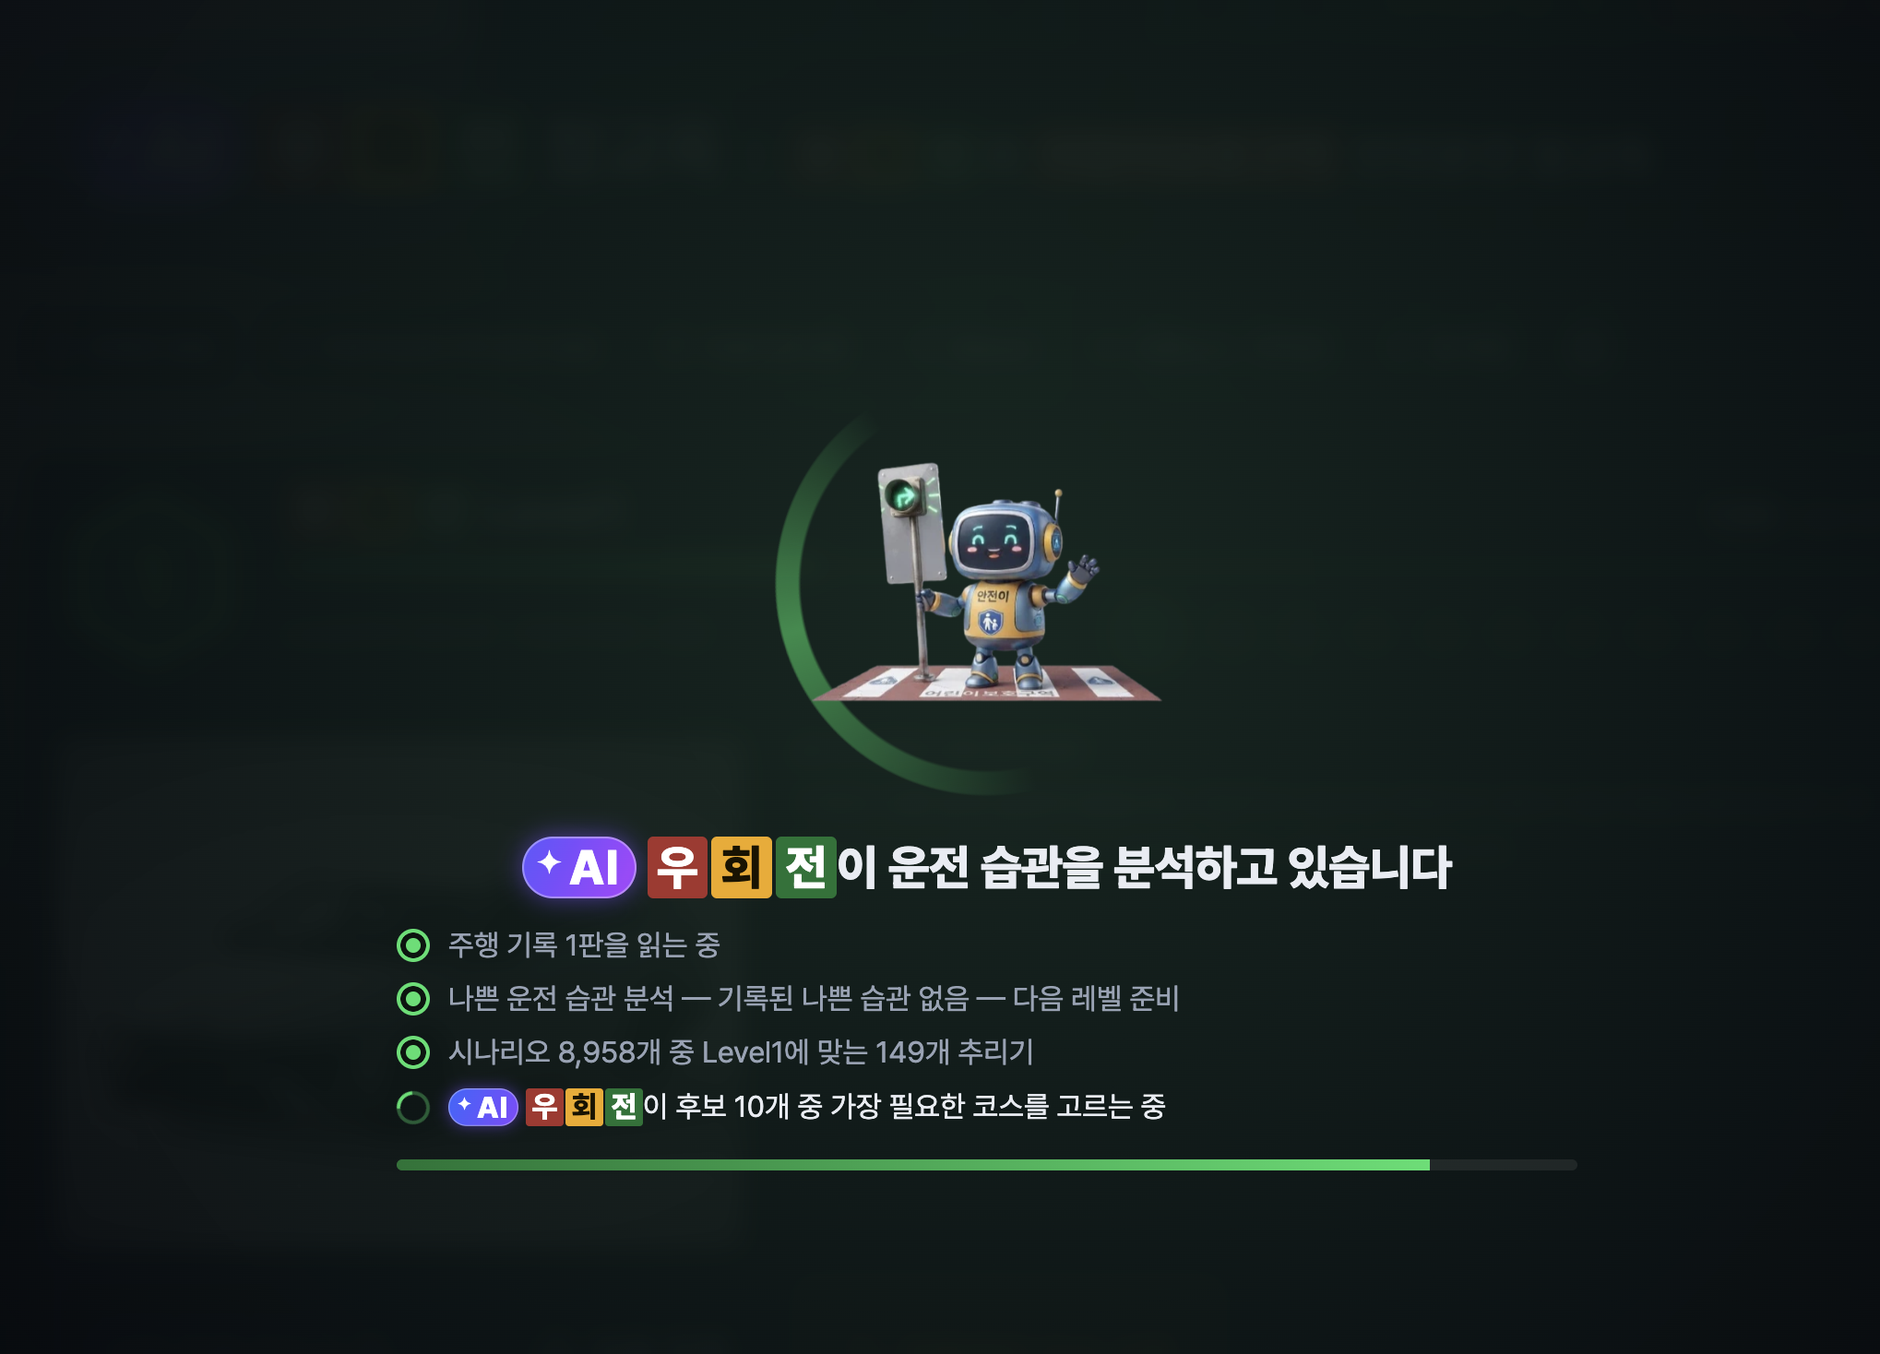
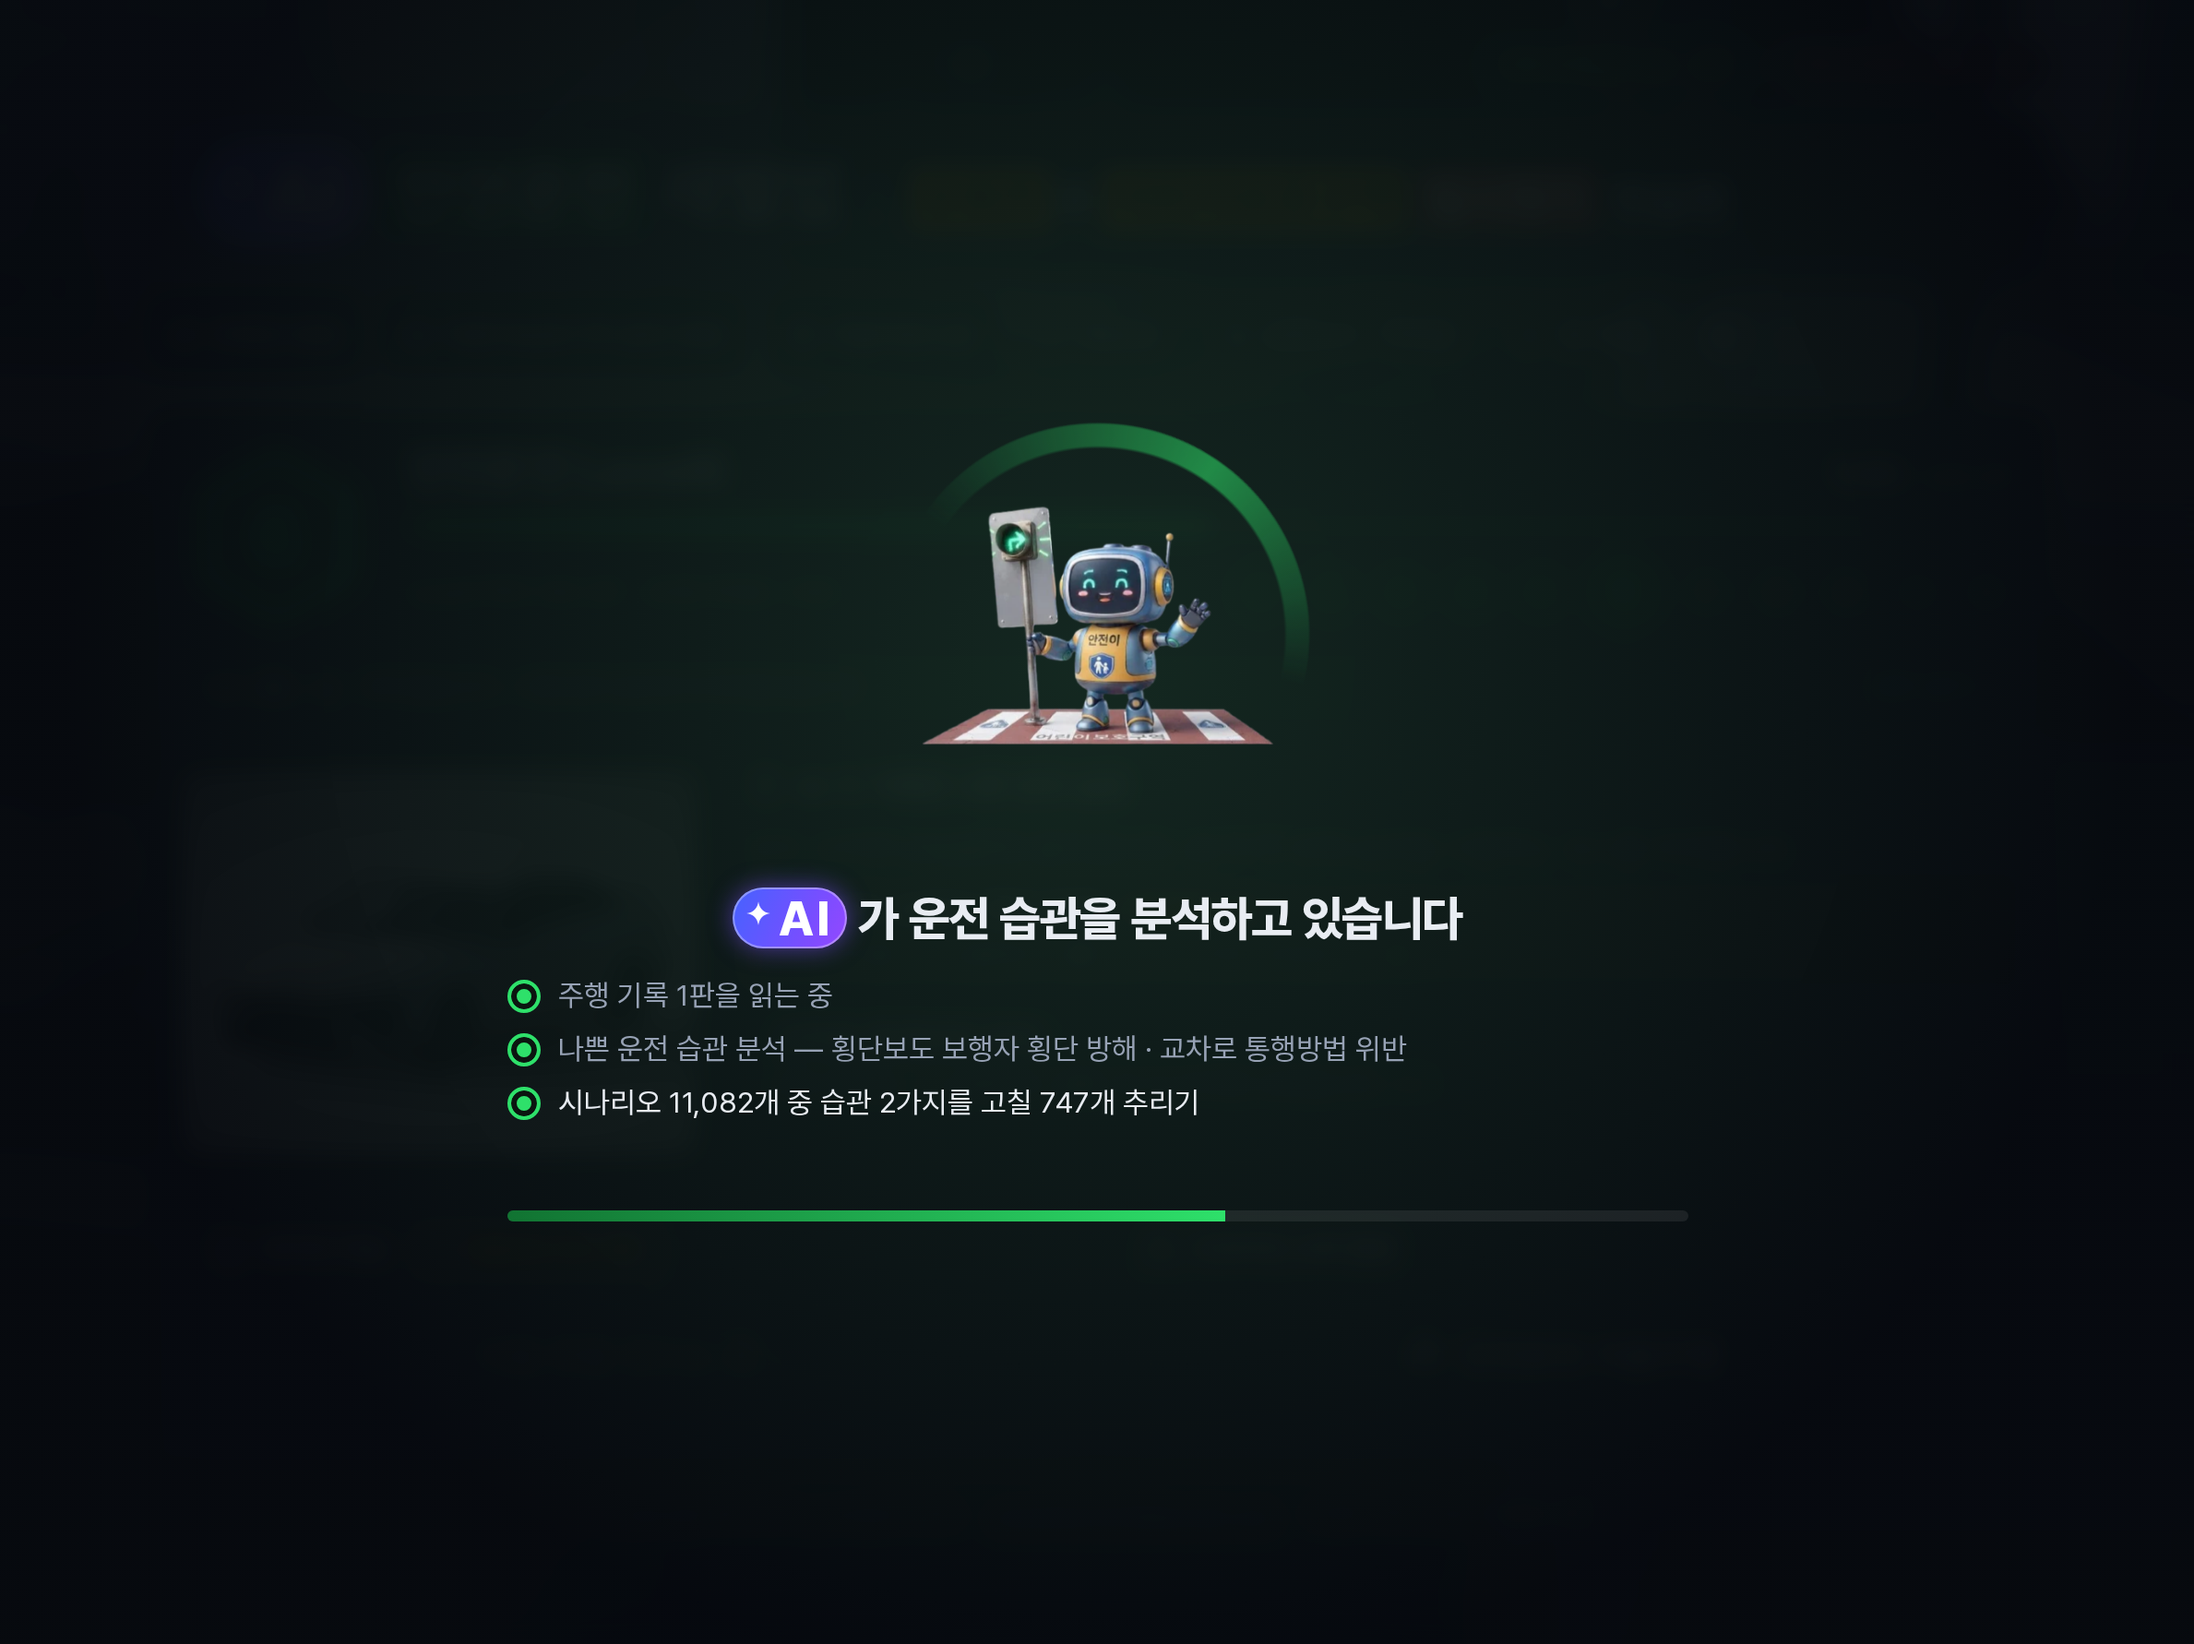
포트폴리오의 화면 캡처 열 장을 지금 화면으로 다시 찍는다
사용자 요청. 이름을 바꾸기 전에 찍은 것이라 화면 안에 옛 이름이 남아 있었고,
첫 화면은 그새 디자인도 바뀌었다.

- 첫 화면 · 습관 분석 · 맵 추천 · 주행 중 말풍선 · 보행자 느낌표 ·
  PERFECT 결과 · VIOLATION 결과 · 우회전 방법 · 어린이보호구역 운전 방법 · About
- 결과 화면 둘은 AI 코칭이 도착한 뒤에 찍는다 — '분석 중…' 인 채로 찍으면
  장표가 말하는 것(AI 코칭)이 화면에 없다.
- PERFECT 는 자율 주행이 아니라 직접 몰아서 받았다. 자율 주행 결과에는
  '오프라인 교육(자율 주행)은 AI 가 분석을 하지 않습니다' 라고 떠서, '규정을
  지킨 PERFECT 결과 화면' 이라는 장표와 어긋난다. 말풍선의 판단(#drive-coach 의
  클래스)을 읽어 서야 할 때 서는 식으로 몰았다.
- 마지막 장의 제목을 '만든 사람과 라이선스' → '만든 사람' 으로 (사용자가 정했다).
  같은 줄의 꼭지 'About · 라이선스' 도 'About' 으로 맞춘다.
- 캡처가 들어간 장표 열 장과 슬라이드쇼를 다시 뽑는다.

Changed region(s): [[0.2164, 0.2452, 0.8346, 0.889]]

diff --git a/AI_safelevelup_portfolio.html b/AI_safelevelup_portfolio.html
@@ -191,7 +191,7 @@
   .cap b { margin-right: 6px; color: var(--text); font-variant-numeric: tabular-nums; }
 
   /*
-    ── 글로 된 장표 (About · 라이선스) ──
+    ── 글로 된 장표 (만든 사람) ──
     그림 장표와 같은 1920×1080 판에 같은 모양으로 짠다. 크기는 모두 `판 픽셀 × --u` 로 적는다 —
     --u 는 장표 너비의 1/1920 이라, 틀이 얼마나 작아지든 그림 장표와 같은 비율로 줄어든다.
     글로 둔 까닭: 라이선스 파일 링크를 누를 수 있어야 한다.
@@ -315,11 +315,11 @@
       <img src="docs/slides/24-effect.png" alt="기대효과" loading="lazy" decoding="async">
     </section>
 
-    <section class="slide doc" data-chapter="마무리" data-title="About · 라이선스">
+    <section class="slide doc" data-chapter="마무리" data-title="만든 사람">
       <div class="doc-in">
         <div class="doc-head">
-          <p class="kicker">About · 라이선스</p>
-          <h2>만든 사람과 라이선스</h2>
+          <p class="kicker">About</p>
+          <h2>만든 사람</h2>
         </div>
         <div class="doc-body">
           <div class="doc-left">

diff --git a/CHANGELOG.md b/CHANGELOG.md
@@ -68,6 +68,10 @@
 
 ### 변경
 
+- **포트폴리오의 화면 캡처 열 장을 지금 화면으로 다시 찍었습니다** — 첫 화면 · 습관 분석 · 맵 추천 · 주행 중 말풍선 · 보행자 느낌표 · PERFECT 결과 · VIOLATION 결과 · 우회전 방법 · 어린이보호구역 운전 방법 · About 입니다. 이름을 바꾸기 전에 찍은 것이라 화면 안에 옛 이름이 그대로 남아 있었고, 첫 화면은 그새 디자인도 바뀌어 있었습니다.
+  - 결과 화면 둘은 **AI 코칭이 도착한 뒤**에 찍었습니다 — '분석 중…' 인 채로 찍으면 장표가 말하는 것이 화면에 없습니다. PERFECT 는 자율 주행이 아니라 **직접 몰아서** 받았습니다 (자율 주행 결과에는 "AI 가 분석을 하지 않습니다" 라고 뜹니다).
+- **포트폴리오 마지막 장의 제목을 '만든 사람과 라이선스' → '만든 사람'** 으로 줄였습니다 (사용자가 정했습니다).
+
 - **포트폴리오 넘겨 보기 페이지의 파일 이름도 바꿨습니다 — `AI_safeturn_portfolio.html` → `AI_safelevelup_portfolio.html`.** 주소가 `safelevelup.vercel.app` 이 된 마당에 파일 이름만 옛 이름이라 어색했습니다. **옛 주소로 들어와도 새 파일로 넘겨줍니다**(`vercel.json` 의 301) — 지금까지 건네 둔 링크가 끊기지 않습니다.
 
 - **이름을 바꿨습니다 — `AI 안전운전 교실` → `AI 안전운전 레벨업`** (사용자가 정했습니다). 이 교실이 실제로 하는 일이 **레벨을 올리는 것**입니다 — 나쁜 운전 습관을 고쳐야 경험치가 쌓이고 레벨이 오르고 차가 바뀝니다(L1~L10 · 마스터). '교실' 은 장소를 말할 뿐이라 무엇을 하는 곳인지가 이름에 없었습니다. 첫 화면 제목 · README 제목 그림 · 포트폴리오 장표 · About 창 · 말풍선까지 한 번에 바꿨습니다.
